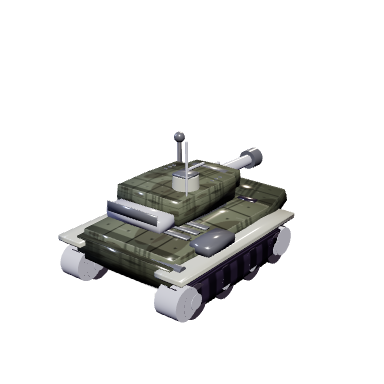
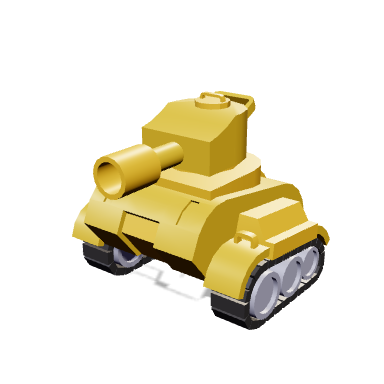
Quaternius CC0 models: real tank + mech (Drone Dog) live

Changed region(s): [[0.1562, 0.2188, 0.875, 0.875]]

diff --git a/index.html b/index.html
@@ -3466,10 +3466,9 @@ aiTick=function(dt){
     return g;
   };
 
-  /* --- registered CC0 models --------------------------------------------- */
-  /* Drone Dog: RobotExpressive by Tomas Laulhe, CC0 (mod Don McCurdy). Biped
-     placeholder proving the pipeline live; swap the .glb for a quadruped later. */
-  MODELS.dogbot = { url:'assets/models/dogbot.glb', targetH:2.4, yaw:Math.PI };
+  /* --- registered CC0 models (Quaternius, CC0 1.0) ----------------------- */
+  MODELS.tank   = { url:'assets/models/tank.glb',   targetH:2.4, yaw:0 };
+  MODELS.dogbot = { url:'assets/models/dogbot.glb', targetH:2.2, yaw:0 };  /* Mech, Drone Dog slot */
 
   if(Object.keys(MODELS).length) window.__loadModels();
 })();

diff --git a/assets/models/CREDITS.md b/assets/models/CREDITS.md
@@ -1,6 +1,8 @@
 # Model credits
 
-## dogbot.glb (Drone Dog slot, placeholder)
-RobotExpressive by Tomas Laulhe. Licence: CC0 1.0 (public domain).
-Modifications by Don McCurdy (CC0). Source: three.js examples.
-Biped placeholder proving the GLTF pipeline; swap for a quadruped model later.
+All models below are by Quaternius (poly.pizza / quaternius.com), licence CC0 1.0
+(public domain, no attribution required). Listed here for provenance only.
+
+- tank.glb   -> Tank  (2,800 tris) : tank unit
+- dogbot.glb -> Mech  (5,846 tris) : Drone Dog slot (biped mech placeholder;
+                swap for a quadruped later if desired)